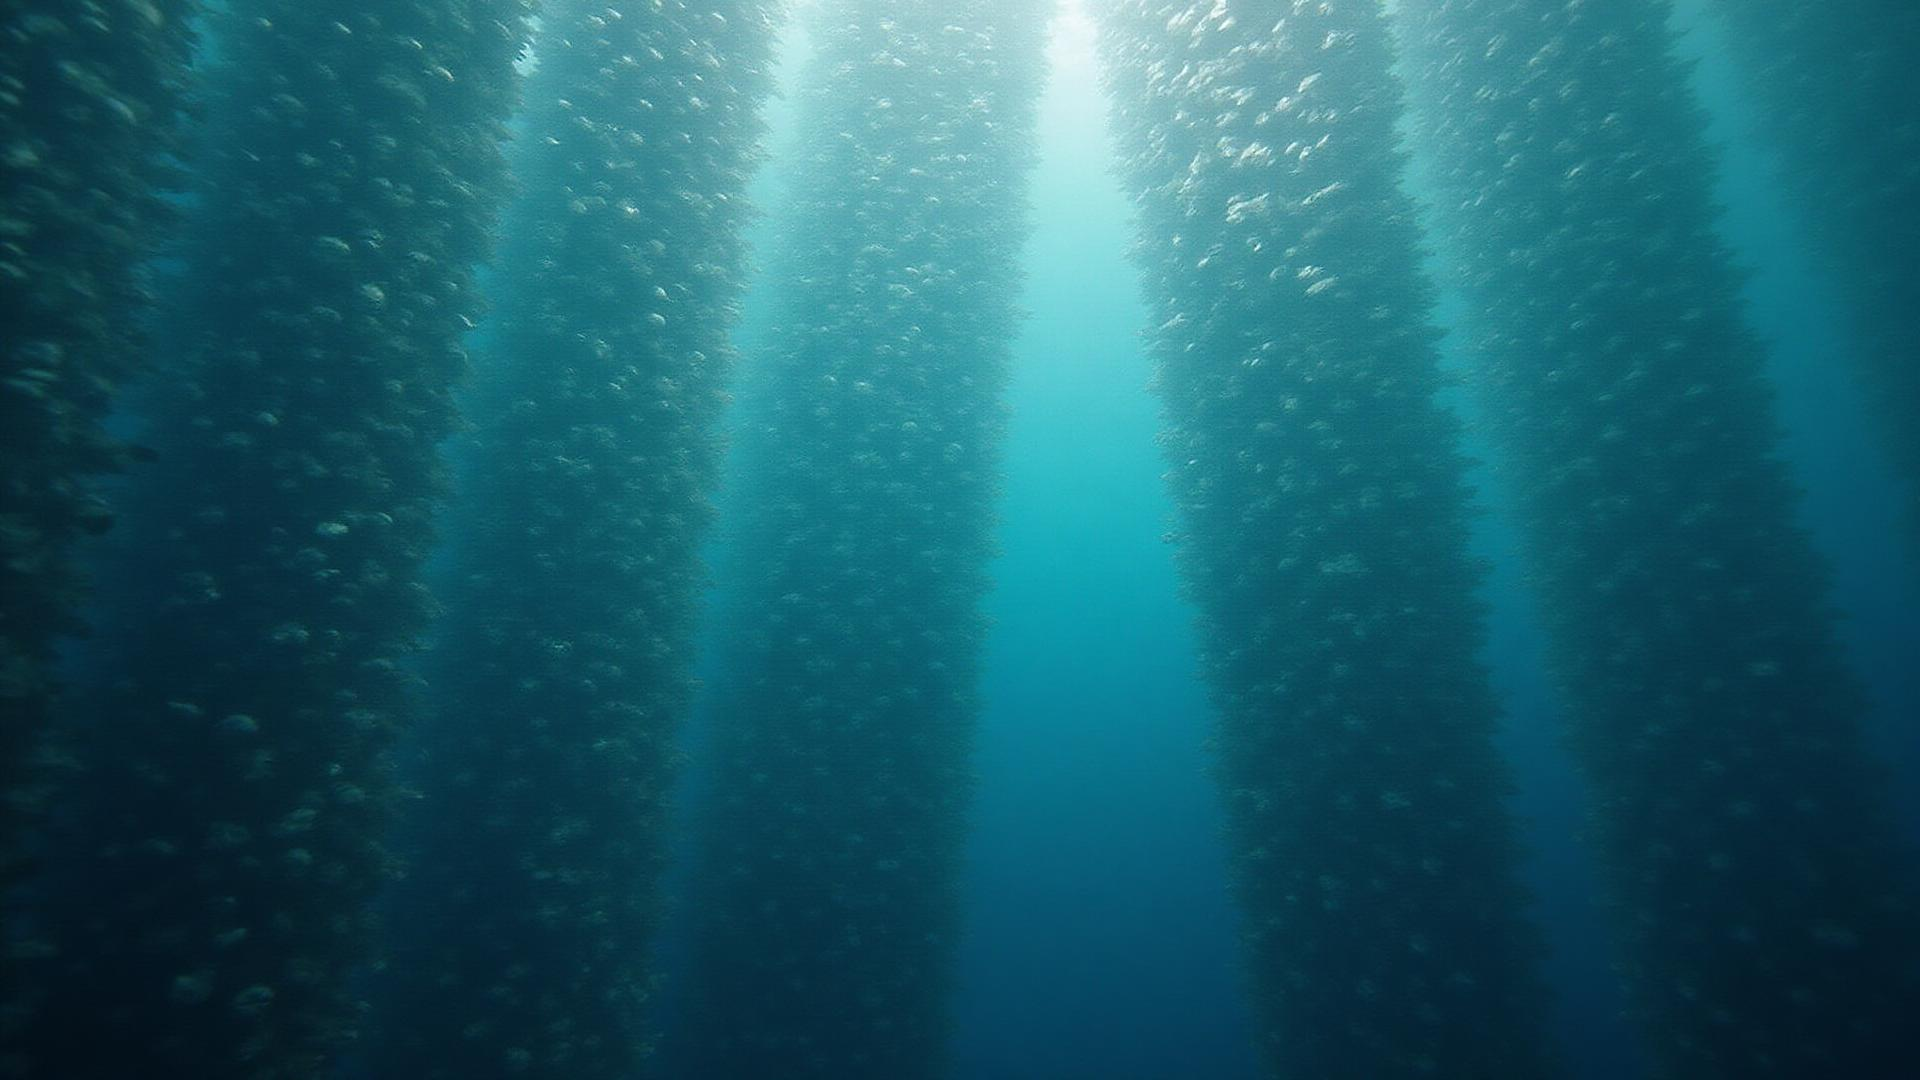
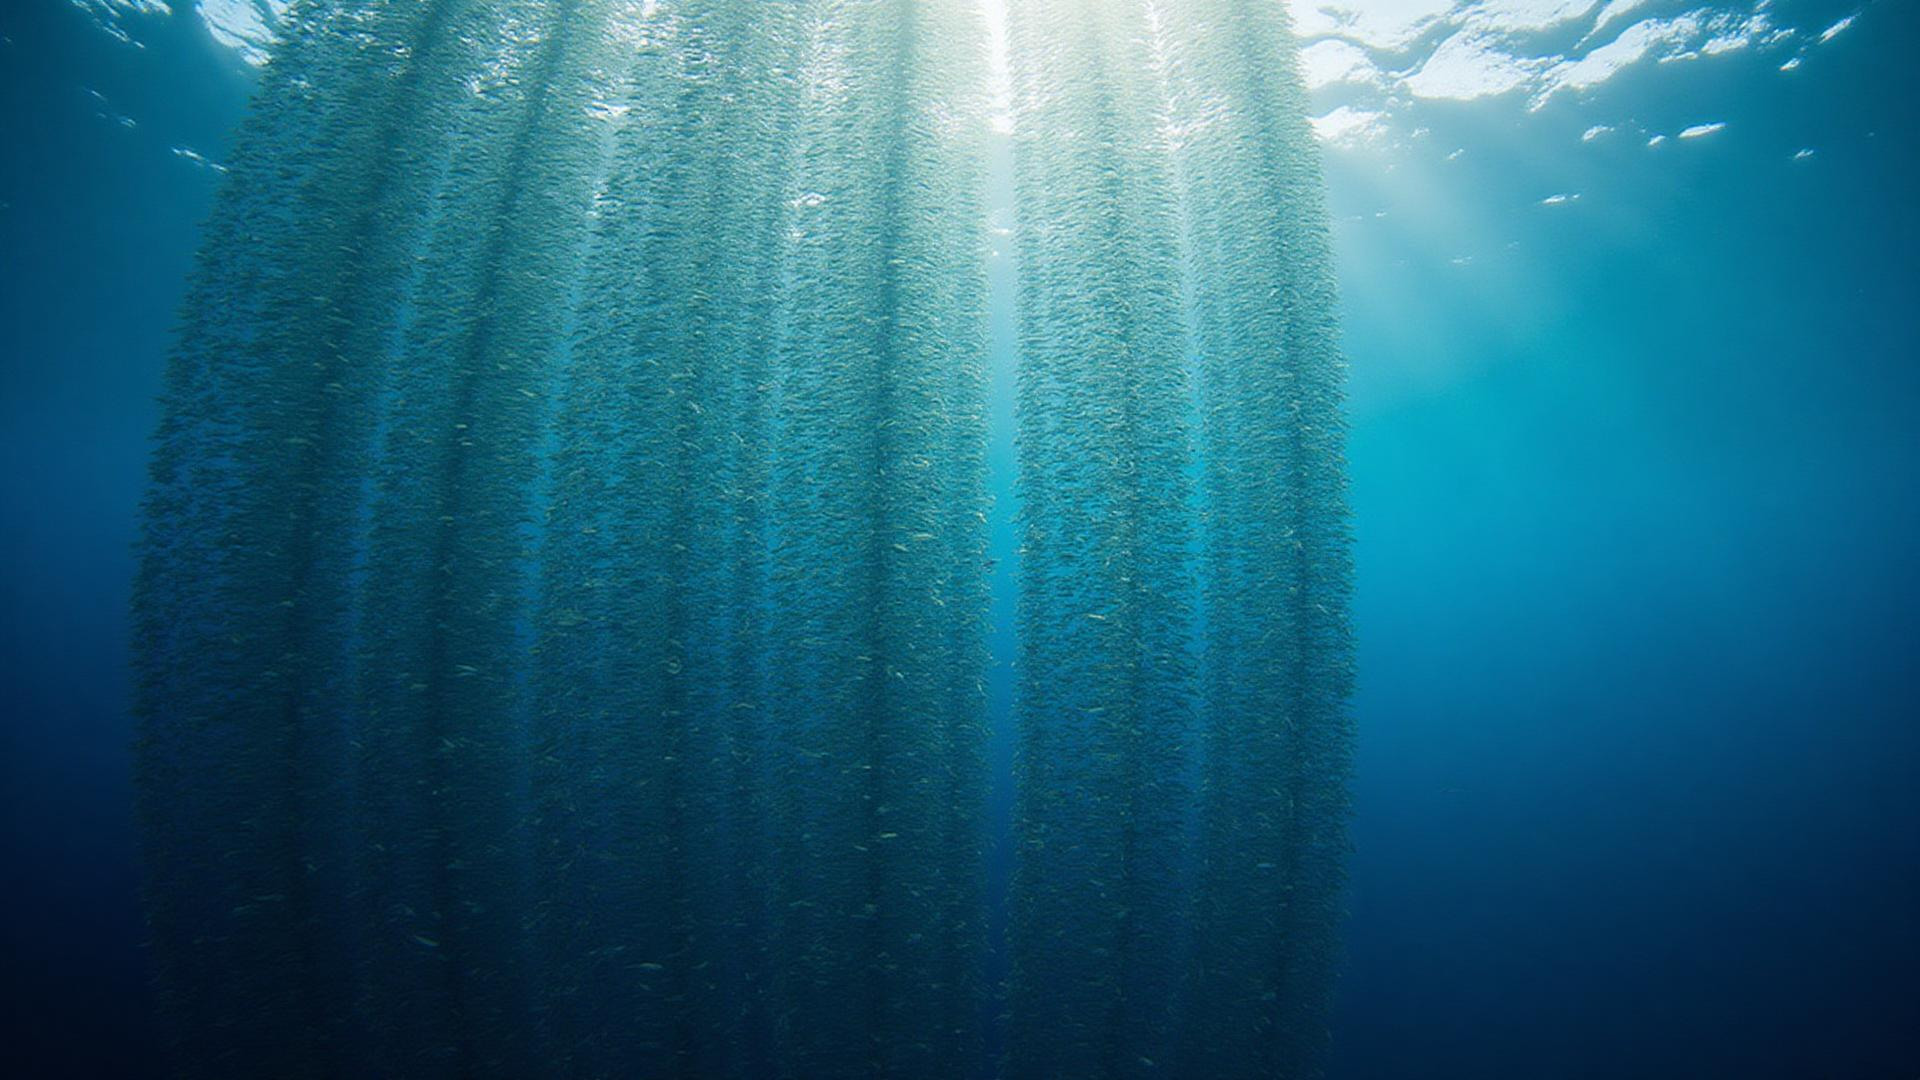
Fix background image visibility

diff --git a/src/components/LoginDialog.tsx b/src/components/LoginDialog.tsx
@@ -101,7 +101,7 @@ const LoginDialog: React.FC<LoginDialogProps> = ({
             backgroundImage: `url(${fishColumnsDesktop})`,
             backgroundSize: 'cover',
             backgroundPosition: 'center',
-            filter: 'brightness(0.7)',
+            filter: 'brightness(0.85)',
             width: '100%',
             height: '100vh'
           }}
@@ -114,14 +114,14 @@ const LoginDialog: React.FC<LoginDialogProps> = ({
             backgroundImage: `url(${fishColumnsMobile})`,
             backgroundSize: 'cover',
             backgroundPosition: 'center',
-            filter: 'brightness(0.7)',
+            filter: 'brightness(0.85)',
             width: '100%',
             height: '100vh'
           }}
         />
         
         {/* Overlay gradient pour meilleure lisibilité */}
-        <div className="fixed inset-0 bg-gradient-to-br from-aqua-900/60 via-ocean-600/50 to-aqua-800/60 z-[1]" />
+        <div className="fixed inset-0 bg-gradient-to-br from-aqua-900/40 via-ocean-600/30 to-aqua-800/40 z-[1]" />
         
         {/* Contenu au-dessus du fond - centré verticalement et horizontalement */}
         <div className="relative z-10 bg-white/95 dark:bg-gray-900/95 backdrop-blur-xl p-6 sm:p-8 md:p-10 rounded-lg shadow-2xl w-[90%] max-w-md mx-auto my-auto overflow-y-auto max-h-[90vh]">

diff --git a/src/components/EnhancedRegistration.tsx b/src/components/EnhancedRegistration.tsx
@@ -187,7 +187,7 @@ const EnhancedRegistration: React.FC<EnhancedRegistrationProps> = ({
             backgroundImage: `url(${fishColumnsDesktop})`,
             backgroundSize: 'cover',
             backgroundPosition: 'center',
-            filter: 'brightness(0.7)',
+            filter: 'brightness(0.85)',
             width: '100%',
             height: '100vh'
           }}
@@ -200,14 +200,14 @@ const EnhancedRegistration: React.FC<EnhancedRegistrationProps> = ({
             backgroundImage: `url(${fishColumnsMobile})`,
             backgroundSize: 'cover',
             backgroundPosition: 'center',
-            filter: 'brightness(0.7)',
+            filter: 'brightness(0.85)',
             width: '100%',
             height: '100vh'
           }}
         />
         
         {/* Overlay gradient */}
-        <div className="fixed inset-0 bg-gradient-to-br from-aqua-900/60 via-ocean-600/50 to-aqua-800/60 z-[1]" />
+        <div className="fixed inset-0 bg-gradient-to-br from-aqua-900/40 via-ocean-600/30 to-aqua-800/40 z-[1]" />
         
         {/* Contenu centré */}
         <div className="relative z-10 bg-white/95 dark:bg-gray-900/95 backdrop-blur-xl p-6 sm:p-8 md:p-10 rounded-lg shadow-2xl w-[90%] max-w-2xl mx-auto my-auto overflow-y-auto max-h-[90vh]">
